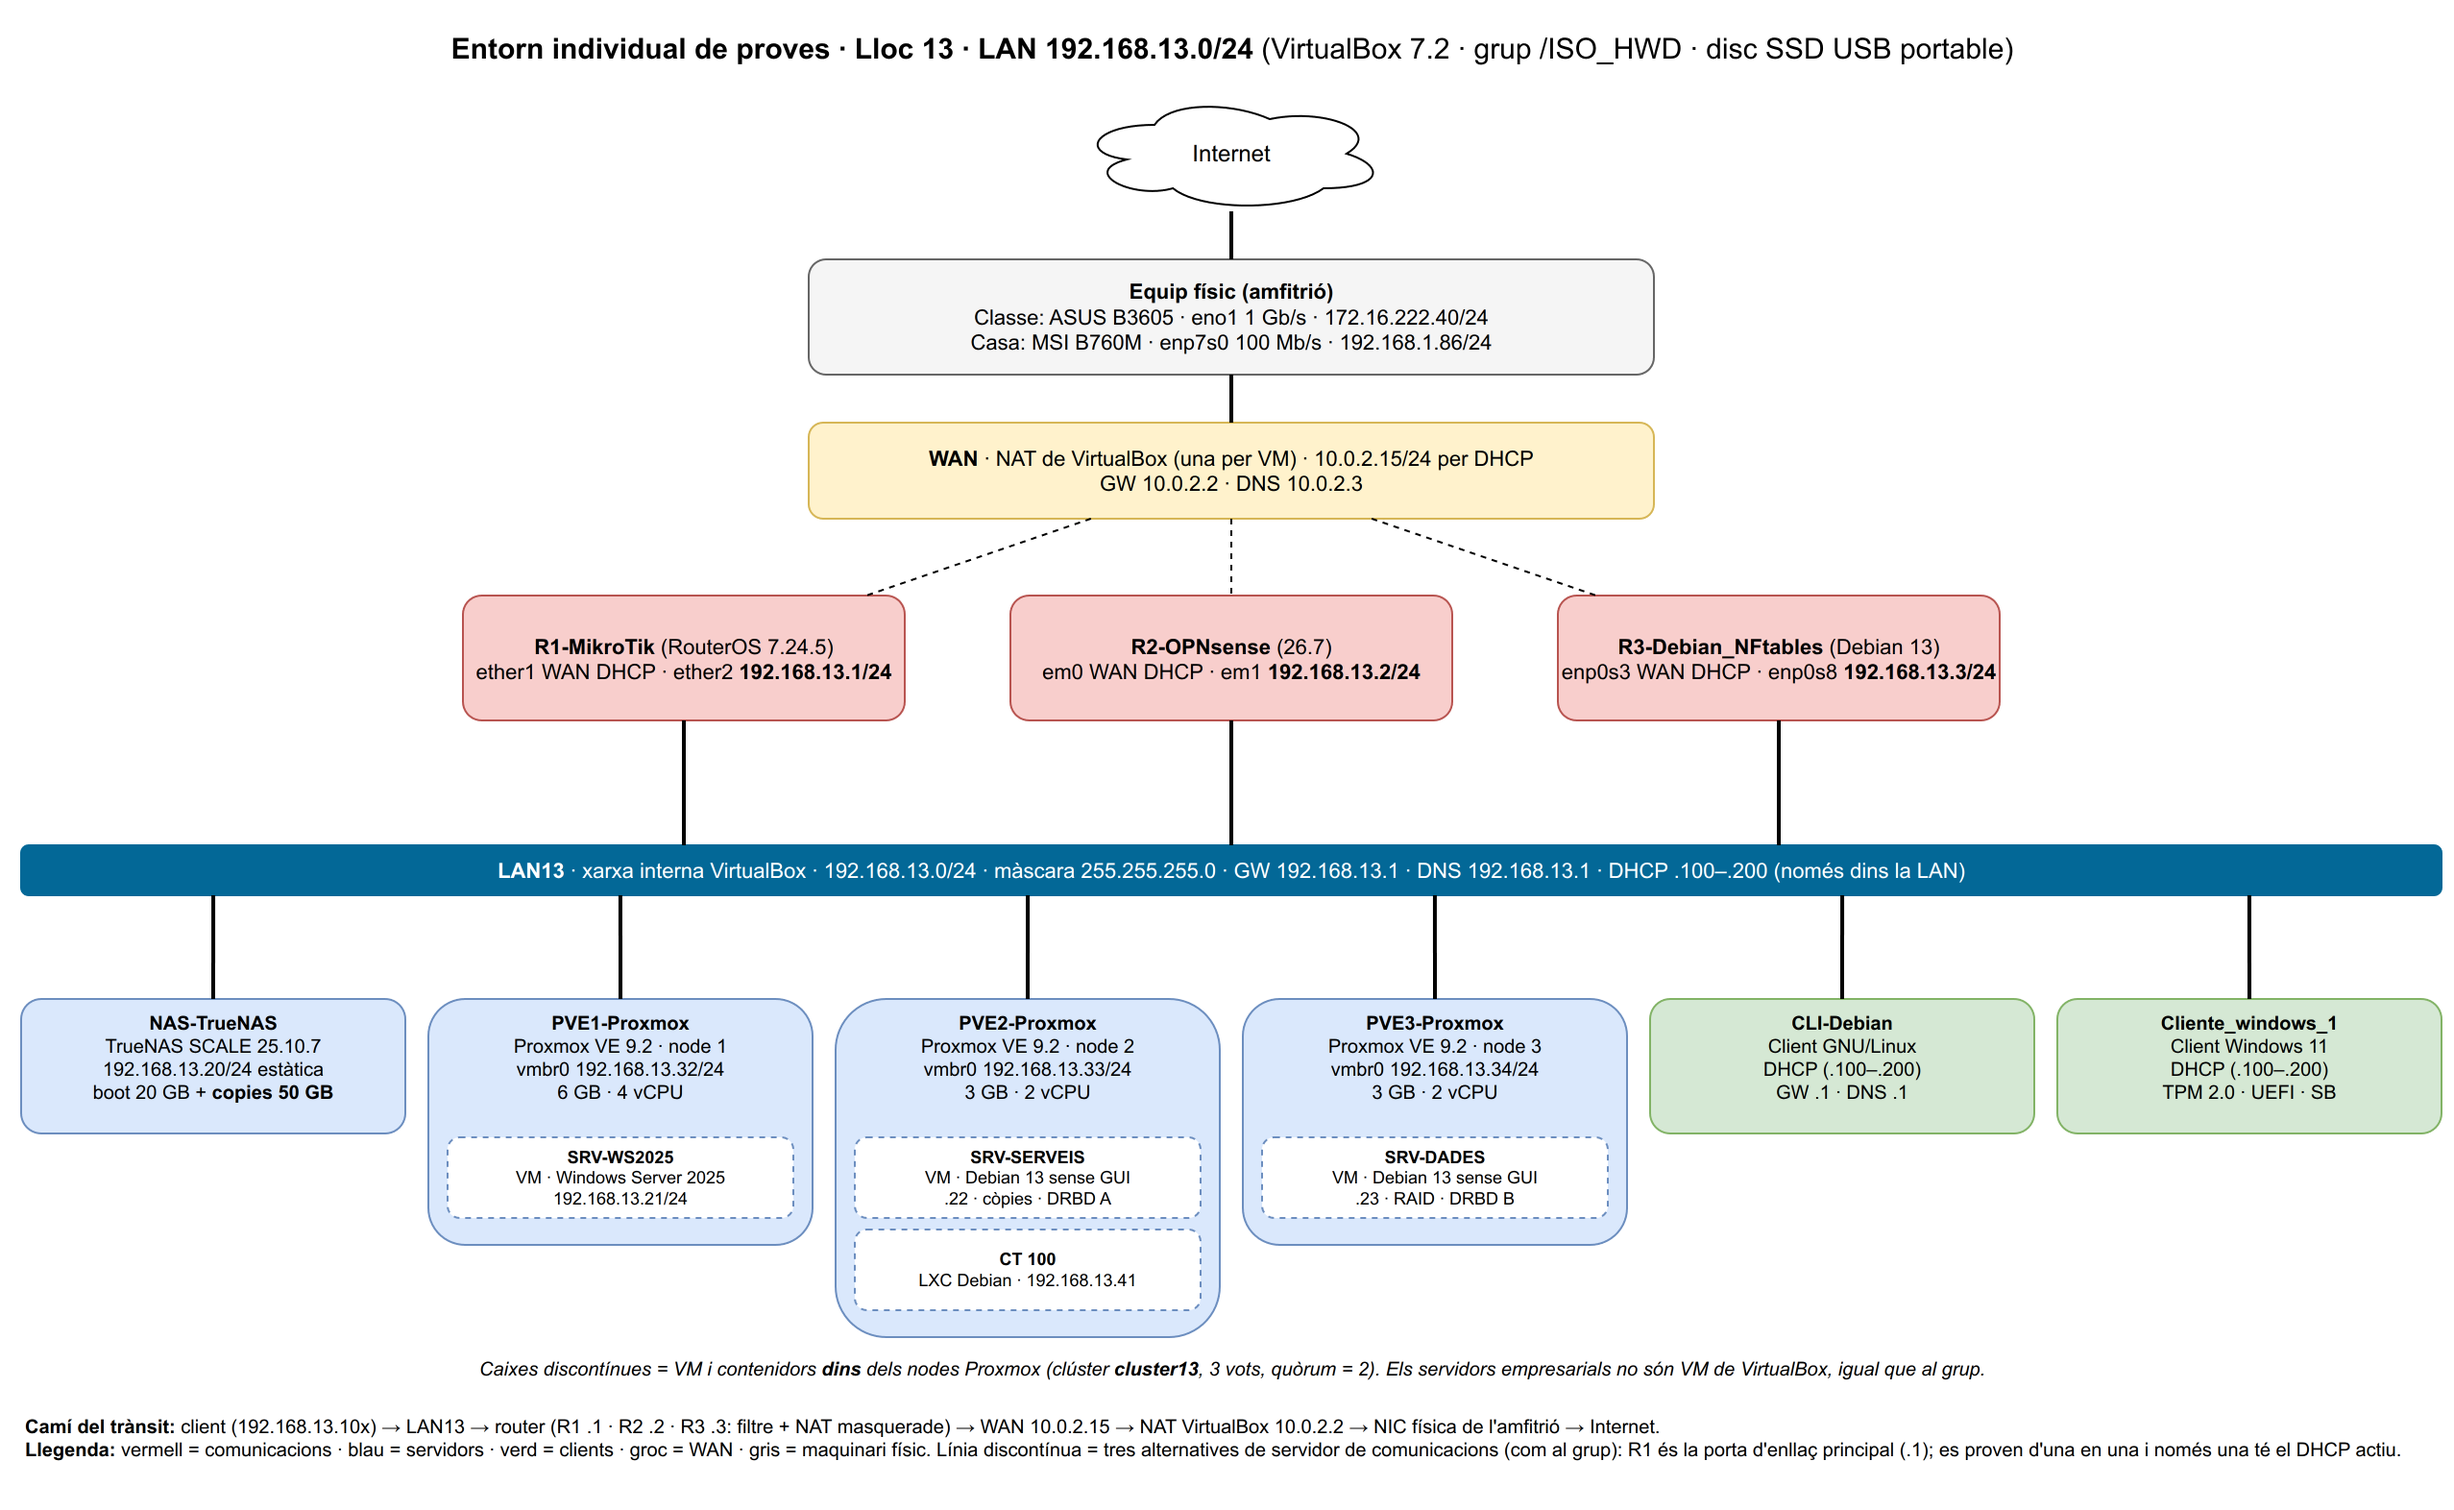
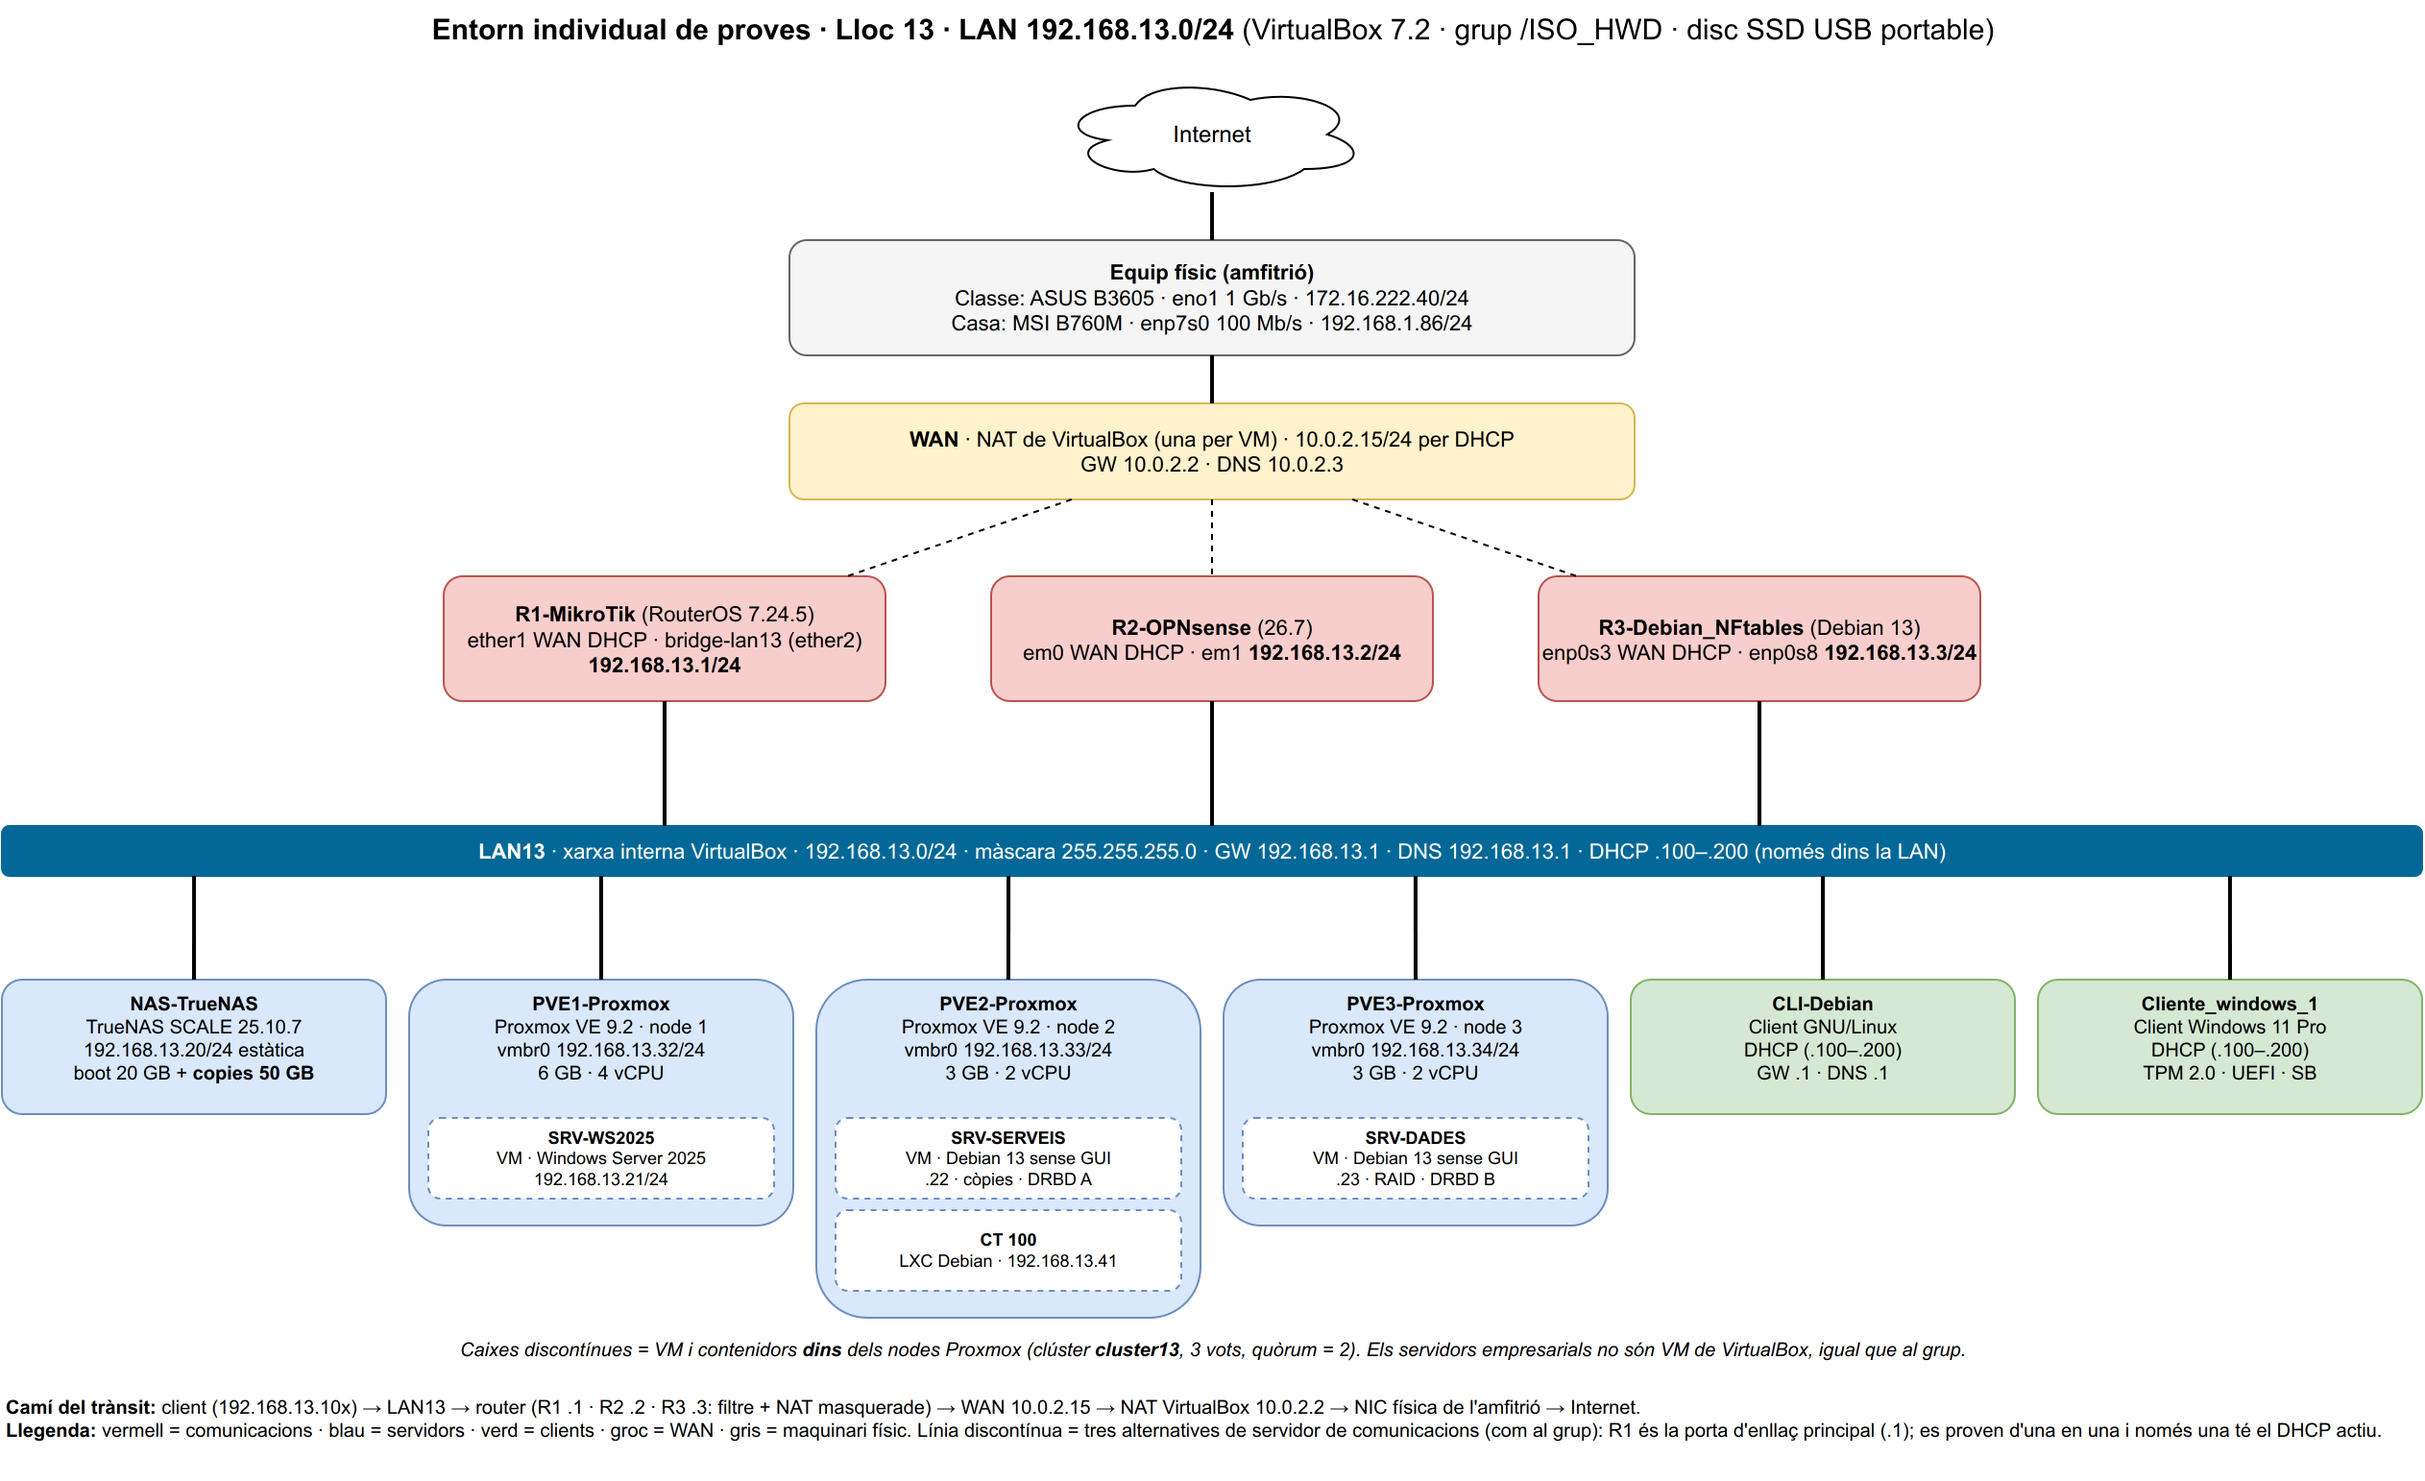
R1: LAN en un bridge (bridge-lan13) amb llistes d'interfícies LAN/WAN
- La IP 192.168.13.1/24 i el DHCP passen del port ether2 al bridge-lan13
- Filtre i NAT amb in/out-interface-list (LAN, WAN) en lloc de noms de port
- Descobriment de veïns i MAC-Telnet/MAC-WinBox només des de la LAN
- Proves: DHCP renovat pel bridge, HTTPS 200 (R1-FWD-OK in:bridge-lan13), SSH bloquejat
- Còpia nova al NAS, configs/mikrotik/r1-config.rsc actualitzat, diagrama regenerat
- R3 sense bridge (decisió de l'alumne); R2 pendent de decidir

diff --git a/scripts/vbox/genera-diagrama.py b/scripts/vbox/genera-diagrama.py
@@ -21,7 +21,7 @@ inet=box(570,50,160,60,"Internet","ellipse;shape=cloud;whiteSpace=wrap;html=1;fi
 host=box(430,135,440,60,"<b>Equip físic (amfitrió)</b><br>Classe: ASUS B3605 · eno1 1 Gb/s · 172.16.222.40/24<br>Casa: MSI B760M · enp7s0 100 Mb/s · 192.168.1.86/24",PHY)
 nat=box(430,220,440,50,"<b>WAN</b> · NAT de VirtualBox (una per VM) · 10.0.2.15/24 per DHCP<br>GW 10.0.2.2 · DNS 10.0.2.3",WAN)
 rs=[]
-for k,(n,d) in enumerate([("R1-MikroTik","(RouterOS 7.24.5)<br>ether1 WAN DHCP · ether2 <b>192.168.13.1/24</b>"),("R2-OPNsense","(26.7)<br>em0 WAN DHCP · em1 <b>192.168.13.2/24</b>"),("R3-Debian_NFtables","(Debian 13)<br>enp0s3 WAN DHCP · enp0s8 <b>192.168.13.3/24</b>")]):
+for k,(n,d) in enumerate([("R1-MikroTik","(RouterOS 7.24.5)<br>ether1 WAN DHCP · bridge-lan13 (ether2) <b>192.168.13.1/24</b>"),("R2-OPNsense","(26.7)<br>em0 WAN DHCP · em1 <b>192.168.13.2/24</b>"),("R3-Debian_NFtables","(Debian 13)<br>enp0s3 WAN DHCP · enp0s8 <b>192.168.13.3/24</b>")]):
     rs.append((box(250+k*285,310,230,65,f"<b>{n}</b> {d}",RT),250+k*285+115))
 BX,BY,BW=20,440,1260
 bus=box(BX,BY,BW,26,"<b>LAN13</b> · xarxa interna VirtualBox · 192.168.13.0/24 · màscara 255.255.255.0 · GW 192.168.13.1 · DNS 192.168.13.1 · DHCP .100–.200 (només dins la LAN)",R+"fillColor=#036897;fontColor=#ffffff;strokeColor=#036897;")
@@ -35,7 +35,7 @@ cols=[("NAS-TrueNAS","TrueNAS SCALE 25.10.7<br>192.168.13.20/24 estàtica<br>boo
       ("PVE2-Proxmox","Proxmox VE 9.2 · node 2<br>vmbr0 192.168.13.33/24<br>3 GB · 2 vCPU",SRV,[("SRV-SERVEIS","VM · Debian 13 sense GUI<br>.22 · còpies · DRBD A"),("CT 100","LXC Debian · 192.168.13.41")]),
       ("PVE3-Proxmox","Proxmox VE 9.2 · node 3<br>vmbr0 192.168.13.34/24<br>3 GB · 2 vCPU",SRV,[("SRV-DADES","VM · Debian 13 sense GUI<br>.23 · RAID · DRBD B")]),
       ("CLI-Debian","Client GNU/Linux<br>DHCP (.100–.200)<br>GW .1 · DNS .1",CLI,[]),
-      ("Cliente_windows_1","Client Windows 11<br>DHCP (.100–.200)<br>TPM 2.0 · UEFI · SB",CLI,[])]
+      ("Cliente_windows_1","Client Windows 11 Pro<br>DHCP (.100–.200)<br>TPM 2.0 · UEFI · SB",CLI,[])]
 bw=200; gap=(BW-6*bw)/5
 for k,(n,d,st,inner) in enumerate(cols):
     x=BX+k*(bw+gap); h=70+48*len(inner)+(10 if inner else 0)

diff --git a/docs/04-installacio.md b/docs/04-installacio.md
@@ -123,11 +123,24 @@ fora del disc (disc intern de casa o un altre pendrive), sense pujar-ho a GitHub
 |---|---|---|
 | a203 instal·lació i versió | ✅ RouterOS **7.24.5 (stable)** x86_64, paquet `system`. **Llicència: sense clau, 24 h de funcionament** (el comptador només avança amb la VM encesa: s'apaga quan no s'usa) | `t5-mikrotik/01-installador-paquets.png`, `02-installacio-completada.png`, `03-llicencia-x86-24h.png`, `a203-versio.txt` |
 | a204 usuaris | ✅ `admin-ivan` (grup full) i `suport` (grup `lectura`, només lectura). `admin` **deshabilitat** després de comprovar l'accés amb `admin-ivan` | `a204-usuaris.txt` |
-| a205 xarxa | ✅ ether1 WAN 10.0.2.15/24 per DHCP (GW 10.0.2.2), ether2 LAN 192.168.13.1/24 | `a205-xarxa.txt` |
+| a205 xarxa | ✅ ether1 WAN 10.0.2.15/24 per DHCP (GW 10.0.2.2), LAN 192.168.13.1/24 (des del 12/11, al **bridge-lan13**, vegeu sota) | `a205-xarxa.txt`, `bridge-r1.txt` |
 | a206 Internet per a la LAN | ✅ masquerade + DHCP .100–.200. CLI-Debian i TrueNAS s'han instal·lat descarregant paquets a través de R1 (leases .199 i .200). El NAS fa ping a 1.1.1.1 | `a206-nat-dhcp.txt` |
 | a207 permesa/bloquejada | ✅ des de CLI-Debian: `curl https://www.debian.org` → `HTTP/2 200` (registre `R1-FWD-OK ... ->130.89.148.77:443`). `nc github.com 22` → timeout (registre `R1-BLOQ-SSH`: 5 SYN, el primer i 4 retransmissions; comptador de la regla = 5 paquets). Interpretació a l'evidència | `a207-filtre.txt`, `a207-prova-permesa-bloquejada.txt` |
 | a208 còpia al NAS | ✅ `/export` (text, sense dades sensibles) + `/system backup save` (binari xifrat) pujats per SFTP a `/mnt/copies/routers/r1/` | `a208-copia-al-nas.txt` |
 | a209 fallada i recuperació | ✅ s'esborren la IP de la LAN, el NAT i la còpia local → els clients perden la porta d'enllaç. Recuperació: es torna a posar la IP de la LAN, es baixa `r1-backup.backup` del NAS per SFTP i es fa `/system backup load`. Prova final: CLI-Debian torna a obtindre `HTTP/2 200`. **Temps d'inactivitat: 42 s** | `a209-fallada-recuperacio.txt` |
+
+**Bridge de la LAN (12/11/2026).** Al principi la IP de la LAN, el DHCP i les regles estaven directament al port `ether2`. El grup ho té en un bridge (`bridge_grupo3` amb `ether2`–`ether5`), i és la pràctica recomanada a RouterOS, així que R1 ara té:
+- **`bridge-lan13`** amb el port `ether2`. La IP 192.168.13.1/24 i el servidor DHCP són al bridge, no al port.
+- **Llistes d'interfícies `LAN` (bridge-lan13) i `WAN` (ether1).** El filtre i el NAT usen les llistes, no noms de port.
+- **Descobriment de veïns i accés per MAC (MAC-Telnet/MAC-WinBox) només des de la LAN.**
+
+Per què és millor, encara que a la VM hi haja un sol port de LAN:
+- **Seguretat i ordre:** les regles diuen «LAN» i «WAN». Un port nou que s'afegisca al bridge queda protegit per les mateixes regles sense tocar-les, i no queda cap port de la LAN fora del filtre per error.
+- **No s'exposa res a la WAN:** l'accés per MAC i el descobriment de veïns ja no responen per `ether1`.
+- **Escalable:** més ports o VLAN (`vlan-filtering`) es posen al bridge i hereten la IP i el DHCP. Al hEX físic del grup és el que fa que `ether2`–`ether5` funcionen com un commutador.
+- **Mateix disseny que el grup.**
+
+Comprovat: el client renova el DHCP a través del bridge, navega (`R1-FWD-OK ... in:bridge-lan13`) i l'SSH cap a Internet continua bloquejat (`R1-BLOQ-SSH`). Còpia nova al NAS: `routers/r1/export-bridge-*.rsc`. **Incidència:** les regles que apuntaven a `ether2` van quedar *INVALID* en convertir-lo en port del bridge, i la LAN va estar ≈ 3 min sense eixida fins que es van passar a les llistes. Evidència: [`bridge-r1.txt`](../evidencias/t5-mikrotik/bridge-r1.txt). Punt de retorn: instantània `R1-abans-bridge`.
 
 **Accés de gestió afegit:** redirecció de port NAT de VirtualBox `127.0.0.1:2201 → R1:22`, i regla `input` que només accepta SSH per la WAN des de 10.0.2.2 (l'amfitrió). Amb `/ip ssh set forwarding-enabled=local`, R1 fa de **bastió**: des de l'amfitrió s'entra a la resta de la LAN13 amb `ssh -J admin-ivan@127.0.0.1:2201 usuari@192.168.13.x`.
 
@@ -227,7 +240,8 @@ Evidències a `evidencias/t5-opnsense/`.
 | Versió | RouterOS 7.24.5 | OPNsense 26.7 | Debian 13.7 + nftables |
 | Administrador / consulta | `admin-ivan` / `suport` (`admin` desactivat) | `admin-ivan` / `suport` (+ `root`) | `admin-ivan` (sudo) / `suport` (+ `ivancambra`) |
 | WAN | ether1 · DHCP 10.0.2.15 | em0 · DHCP 10.0.2.15 | enp0s3 · DHCP 10.0.2.15 |
-| LAN | ether2 · **192.168.13.1/24** | em1 · **192.168.13.2/24** | enp0s8 · **192.168.13.3/24** |
+| LAN | **bridge-lan13** (port ether2) · **192.168.13.1/24** | em1 · **192.168.13.2/24** | enp0s8 · **192.168.13.3/24** |
+| Bridge a la LAN | ✅ `bridge-lan13` + llistes LAN/WAN | ⬜ pendent de decidir | ➖ no (decisió de l'alumne: en Debian la LAN es queda directament a `enp0s8`) |
 | NAT | masquerade srcnat | Outbound NAT automàtic | `masquerade` (taula ip nat) |
 | DHCP LAN .100–.200 | ✅ actiu (router principal) | preparat, desactivat | `dnsmasq` preparat, desactivat |
 | DNS per a la LAN | `allow-remote-requests` | Unbound | `dnsmasq` |
@@ -237,7 +251,7 @@ Evidències a `evidencias/t5-opnsense/`.
 | Fallada provocada | s'esborren la IP de LAN, el NAT i la còpia local | s'esborren les regles de LAN | `nft flush` + `ip_forward=0` + s'esborra la config |
 | Recuperació (temps) | `backup load` des del NAS (**42 s**) | restauració de `config.xml` (**48 s**) | `tar` des del NAS + `nft -f` (**22 s**) |
 
-Diferències que el disseny accepta: la IP de LAN (.1/.2/.3, com al grup) i que el DHCP només està actiu al router principal.
+Diferències que el disseny accepta: la IP de LAN (.1/.2/.3, com al grup), que el DHCP només està actiu al router principal i que **el bridge de la LAN només és a R1**, que és el router principal (com el MikroTik del grup).
 
 ## 5. NAS · TrueNAS SCALE (a224–a227, a259)
 

diff --git a/docs/ia-log.md b/docs/ia-log.md
@@ -62,4 +62,10 @@ que apareixen als documents s'han executat de veritat a l'equip; on no hi ha dad
 - Abans, l'IA va comprovar que la ISO inclou l'edició Pro, llegint l'XML d'`install.wim` sense extraure els 6 GB.
 - Error de l'IA: va tancar un túnel SSH amb `pkill -f` i el patró coincidia amb la seua pròpia ordre, que es va tallar (trampa ja coneguda). No va tindre conseqüències.
 
+**12/11/2026 (casa): bridge de la LAN a R1**, a petició de l'alumne (el grup ho té així):
+- R1 té ara `bridge-lan13` amb `ether2`, les llistes LAN/WAN i l'accés per MAC i el descobriment de veïns limitats a la LAN.
+- **Error de l'IA:** va moure les regles del tallafocs amb `set [find in-interface=ether2]`, però quan `ether2` ja era port del bridge el `find` no trobava res. Les regles van quedar INVALID i la LAN va estar ≈ 3 min sense eixida. Es va corregir buscant les regles pel comentari.
+- **Error de l'IA:** la primera prova de DHCP no va renovar de veritat (el `sudo` en segon pla no tenia la contrasenya i va morir en tancar-se la sessió SSH). Es va detectar perquè R1 no mostrava cap concessió, i es va repetir amb `systemd-run`.
+- R3: l'IA hi havia instal·lat `bridge-utils` i preparat el canvi, però l'alumne va decidir que R3 no tinga bridge. Es va restaurar la instantània `R3-abans-bridge`.
+
 *(Afegir una fila cada vegada que consulte una IA: abans, la meua predicció i el motiu; després, el contrast i la decisió.)*

diff --git a/docs/03-xarxa.md b/docs/03-xarxa.md
@@ -34,7 +34,7 @@ Màscara a tota la LAN: **255.255.255.0 (/24)**. La xarxa NAT de VirtualBox és 
 | Equip | Nivell | Adaptador | Tipus de xarxa | Interfície (SO) | IP / màscara | Porta d'enllaç | DNS | Mètode |
 |---|---|---|---|---|---|---|---|---|
 | R1-MikroTik | VirtualBox | 1 | NAT | ether1 (WAN) | 10.0.2.15/24 | 10.0.2.2 | 10.0.2.3 | DHCP |
-| | | 2 | Interna LAN13 | ether2 (LAN) | **192.168.13.1/24** | — | — | estàtica · servidor DHCP |
+| | | 2 | Interna LAN13 | **bridge-lan13** (port ether2) | **192.168.13.1/24** | — | — | estàtica · servidor DHCP (al bridge) |
 | R2-OPNsense | VirtualBox | 1 | NAT | em0 (WAN) | 10.0.2.15/24 | 10.0.2.2 | 10.0.2.3 | DHCP |
 | | | 2 | Interna LAN13 | em1 (LAN) | **192.168.13.2/24** | — | — | estàtica |
 | R3 Debian_NFtables | VirtualBox | 1 | NAT | enp0s3 (WAN) | 10.0.2.15/24 | 10.0.2.2 | 10.0.2.3 | DHCP |
